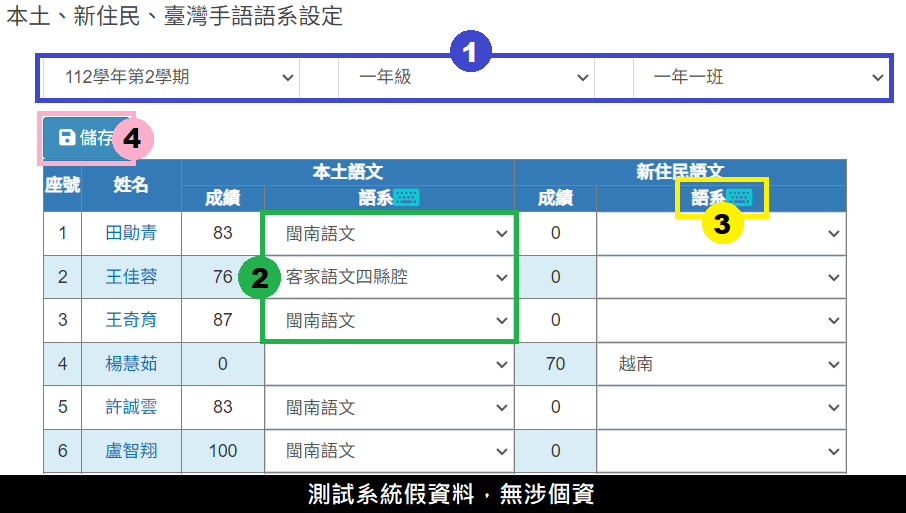
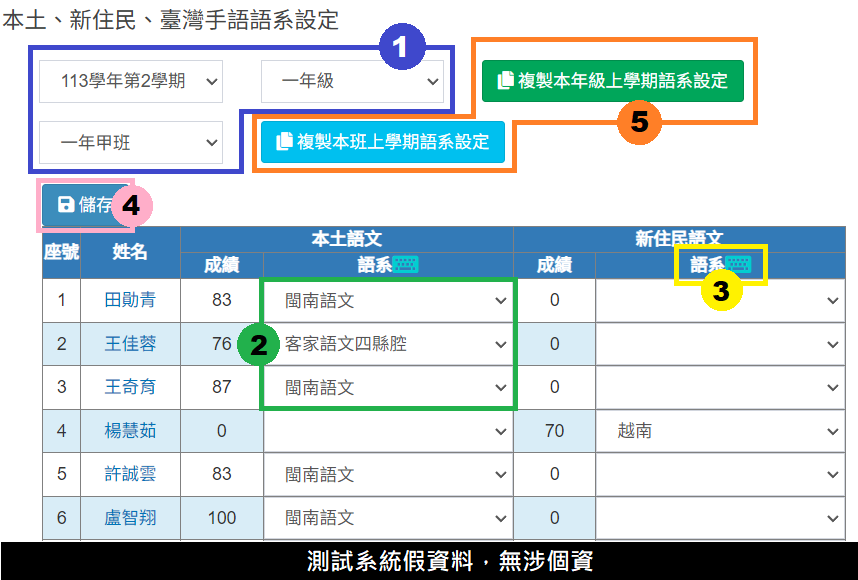
GITBOOK-506: 250416_選修語文語系複製功能說明

diff --git a/jiao/cheng-he-guan-li.md b/jiao/cheng-he-guan-li.md
@@ -197,9 +197,19 @@
    <mark style="color:red;">※各語文領域類型語系有相關規範，如新住民語系就必須為＂語文－新住民語＂領域下方能選擇。</mark>
 3. 鍵盤按鈕可預設列表為相同語系進行批次設定。
 4. 處理完畢後請記得「儲存」。
+5. 於「 第二學期 」，系統會顯示複製功能，可使用「複製本班上學期語系設定」或「複製本年級上學期與設定」，一鍵複製學生上學期的語言語系類型。\
+   <mark style="color:red;">※僅第二學期提供複製功能，第一學期無此功能。</mark>
 
 {% hint style="info" %}
 此模組與任課老師於＂[學習描述文字編修](../jiao-1/sheng-cheng-guan-li.md#xue-xi-miao-shu-wen-zi-bian-xiu)＂設定的語系連動，因科任老師無法處理非本學期作業，故此模組主要功能是提供行政端可以進行非本學期資料補登。
+{% endhint %}
+
+{% hint style="warning" %}
+複製上學期語系設定功能注意事項：
+
+* 複製功能係以班級序號為判斷依據，非以班名為依據，所以上下學期班級序號需一致。
+* 第二學期才有複製功能，且第二學期該班課程設定與上學期相同，如果第二學期沒有第一學期的科目，則跳過不處理。
+* 本學期轉入生(或上學期期末轉入生)上學期未在本校設定語系，無法複製跳過不處理。
 {% endhint %}
 
 ## 學期成績
